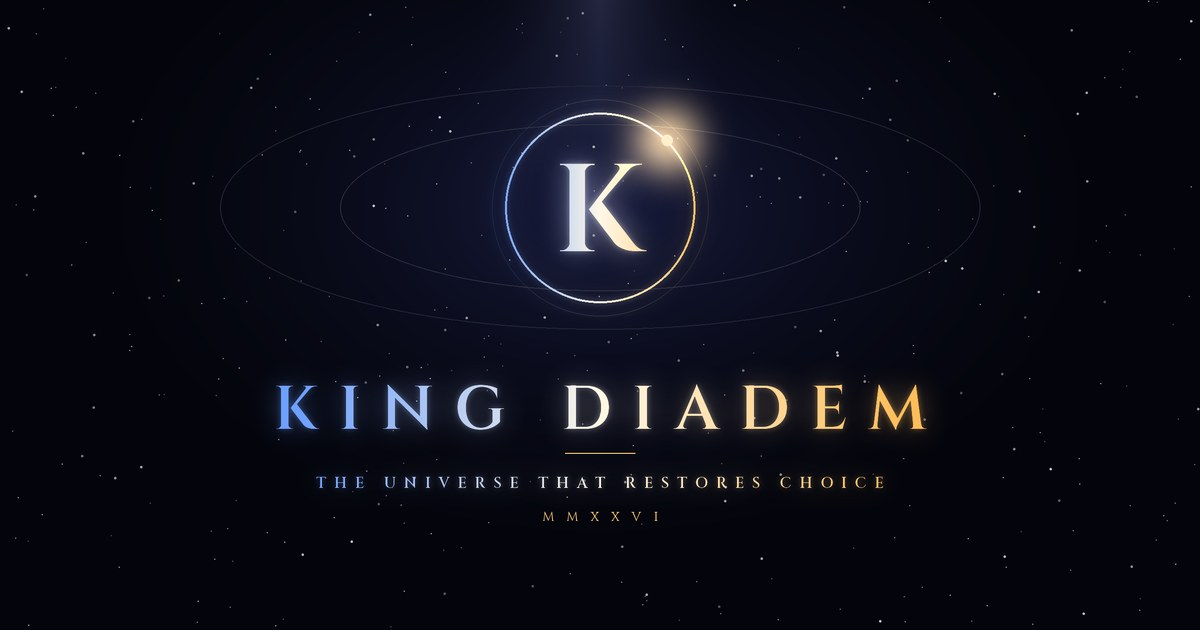
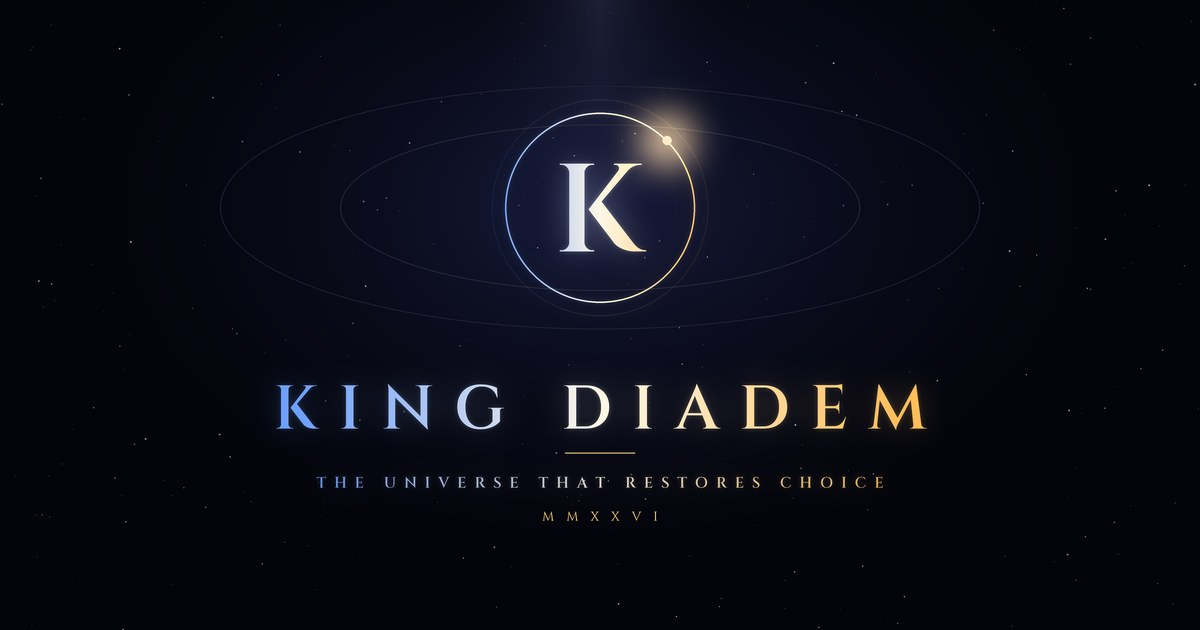
ภาพแบรนด์คมขึ้นและนุ่มตาขึ้น พร้อมไฟล์บอกว่าภาพไหนใช้ที่ไหน
พี่อยากให้ละเอียดคมยิบ ทรงพลังแต่ไม่เวอร์ ไม่สว่างจ้า มองได้นานไม่เบื่อ
ตอนนี้วาดภาพที่ความละเอียดสองเท่าแล้วค่อยย่อลง ขอบตัวอักษรและเส้นวงเลยคมขึ้นชัด
แสงเรืองรอบตัวอักษรกับลำแสงจากด้านบนนุ่มลง ดาวน้อยลงแต่ละเอียดขึ้น
ทองไม่จ้าเกินไป โทนเดิมทุกอย่าง

เพิ่ม static/brand/README.md บอกว่าภาพไหนใช้ที่ไหน ขนาดเท่าไร
(เทสต์ตรวจว่าไฟล์ใน static/ ต้องมีที่อ้างถึง เลยล้มเมื่อกี้) ค่ะ

Claude-Session: https://claude.ai/code/session_01C6X28GvHcvuL1W91ri4vK3

diff --git a/static/brand/README.md b/static/brand/README.md
@@ -1,0 +1,10 @@
+# ภาพแบรนด์ KING DIADEM
+
+| ไฟล์ | ขนาด | ใช้ที่ |
+|---|---|---|
+| `key-visual.jpg` | 2400×1350 | ภาพหลักของแบรนด์ (โปสเตอร์ สไลด์ ภาพแคมเปญ) |
+| `linkedin-cover.jpg` | 1584×396 | ภาพปกโปรไฟล์ LinkedIn |
+| `../og.jpg` | 1200×630 | ภาพตัวอย่างเวลาแชร์ลิงก์ |
+
+โทน: ดำลึกอมคราม · ชื่อไล่ ฟ้า → Cosmic Latte (#FFF8E7) → ทอง · จุดทองหนึ่งดวงบนวงโคจร = Choice(t) ≥ 1
+ฟอนต์: Cinzel (SIL Open Font License — ใช้ในโลโก้ได้) · วาดที่ 2 เท่าแล้วย่อ ขอบจึงคม
